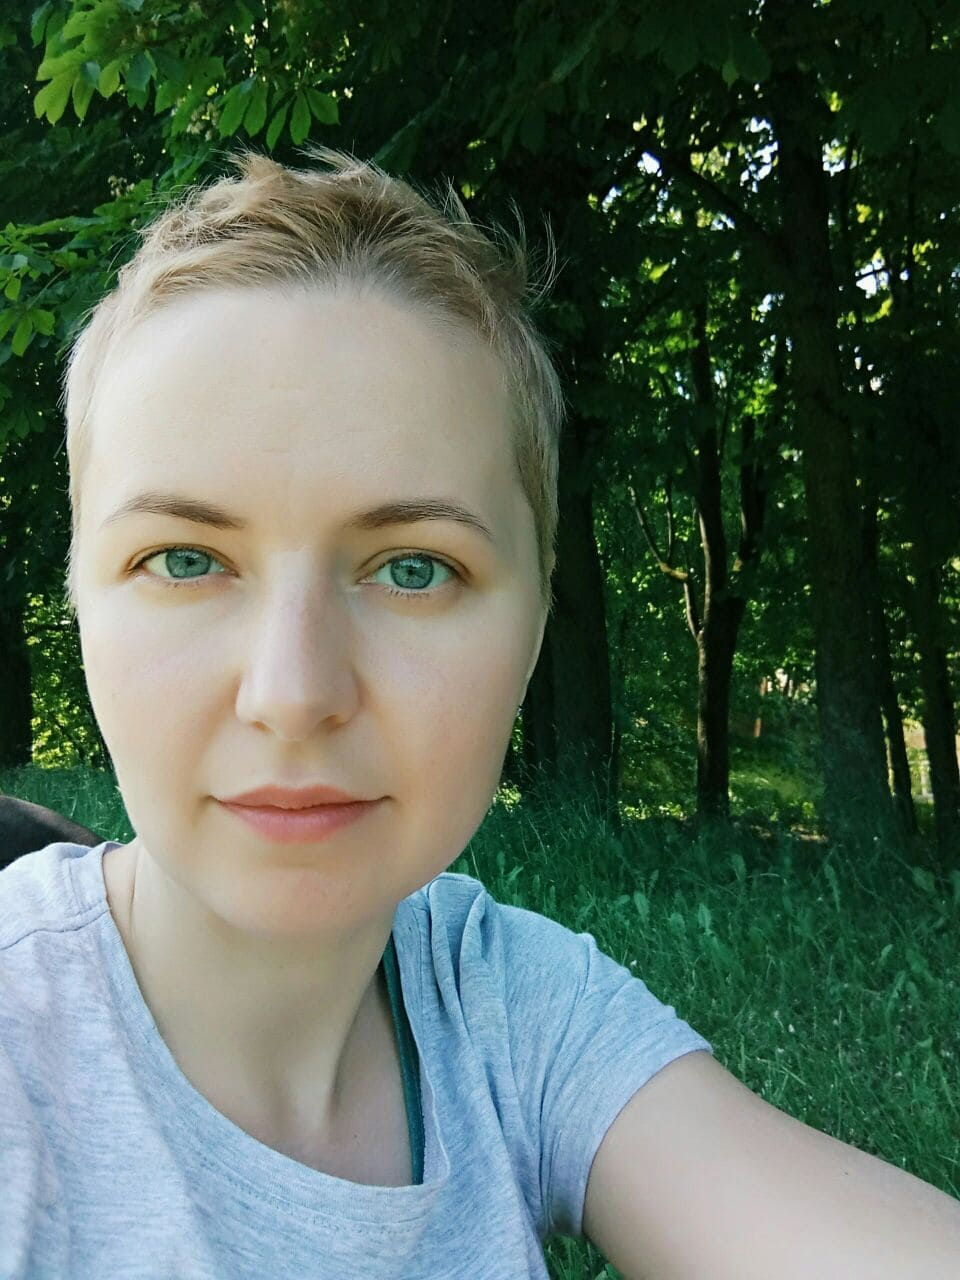
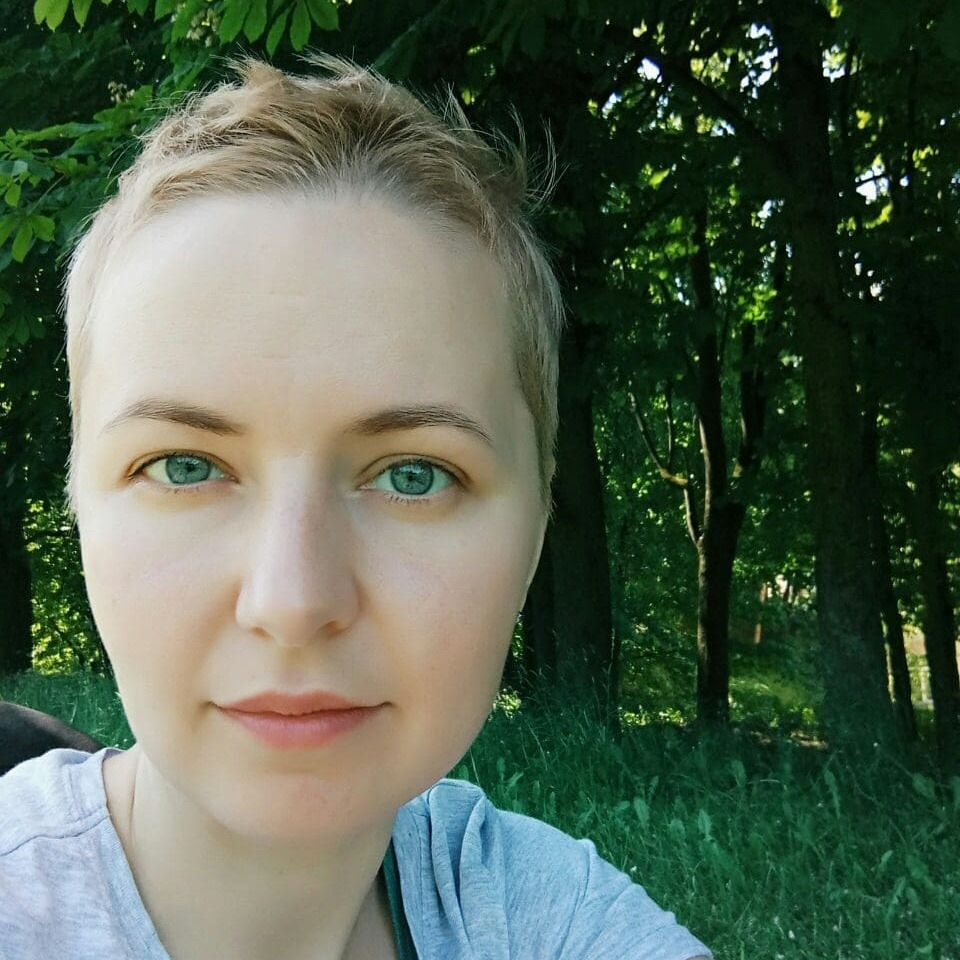
feat: add header and title styles

diff --git a/style.css b/style.css
@@ -1,23 +1,39 @@
+:root {
+    --beige: #e5c5ad;
+    --cream: #dbaf96;
+    --lightGray: #9c958e;
+    --darkGray: #625f5e;
+    --raleway: 'Raleway', sans-serif;
+    --roboto: 'Roboto', sans-serif;
+}
+
 html {
     scroll-behavior: smooth; 
   }
 
 * {
     box-sizing: border-box;
+    margin: 0;
+    padding: 0;
 }
 
-body {
+/* body {
     min-height: 100vh;
     margin: 0;
     padding: 0;
     display: flex;
     flex-direction: column;
     justify-content: space-between;
+  } */
+
+  header {
+      background-color: var(--beige);
   }
 
   .container {
-    max-width: 1440px;
+    max-width: 1140px;
     margin: 0 auto;
+    /* padding: 20px 0 15px; */
   }
 
   .nav-list {
@@ -25,10 +41,50 @@ body {
     justify-content: flex-end;
     align-items: center;
     list-style: none;
+    padding: 20px 0 15px;
   }
 
   .nav-link {
     padding: 0 20px;
     line-height: 50px;
     text-decoration: none;
+    color: white;
+  }
+
+  .title {
+      display: flex;
+      flex-wrap: wrap;
+      justify-content: space-around;
+  }
+
+  .title-wrapper {
+      margin: auto 0;
+      text-align: center;
+  }
+
+  .title-picture {
+      border-radius: 5px;
+  }
+
+  .title-line {
+      margin: 0 auto;
+      background-color: var(--cream);
+      height: 3px;
+      max-width: 400px;
+      margin-bottom: 20px;
+  }
+
+  h1 {
+      font-family: var(--raleway);
+      font-size: 46px;
+      font-weight: 600;
+      color: var(--darkGray);
+      margin-bottom: 20px;
+  }
+
+  .subtitile {
+      font-family: var(--raleway);
+      font-size: 20px;
+      font-weight: 400;
+      color: var(--lightGray);
   }

diff --git a/index.html b/index.html
@@ -29,8 +29,11 @@
         <div class="container">
             <section class="title">
                 <img src="./assets/image/Olga_Dozhenok_photo.jpg" alt="Olga Dozhenok photo" class="title-picture" width="200">
-                <h1>Olga Dozhenok</h1>
-                <p class="subtitile">Junior Frontend Developer</p>
+                <div class="title-wrapper">
+                    <h1>Olga Dozhenok</h1>
+                    <div class="title-line"></div>
+                    <p class="subtitile">Junior Frontend Developer</p>
+                </div>
             </section>
             <div class="wrapper">
                 <section class="contacts" id="contacts">
